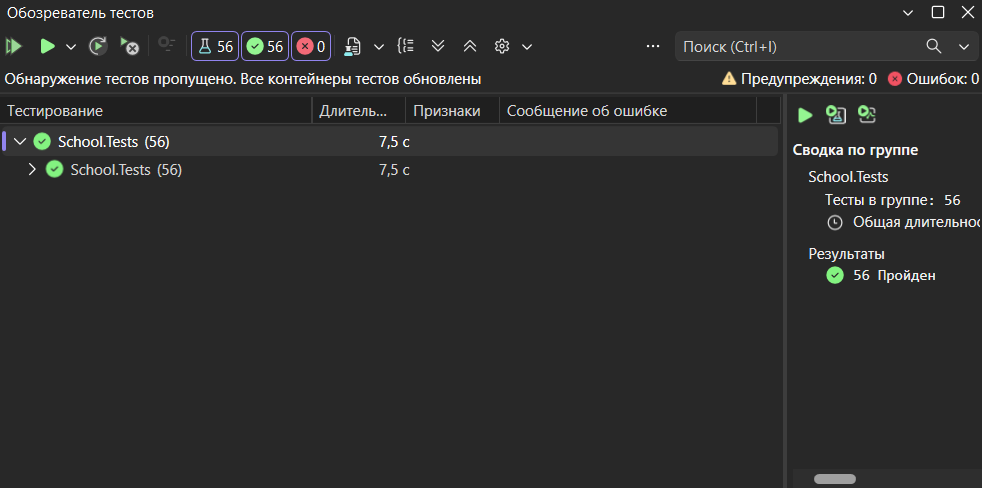
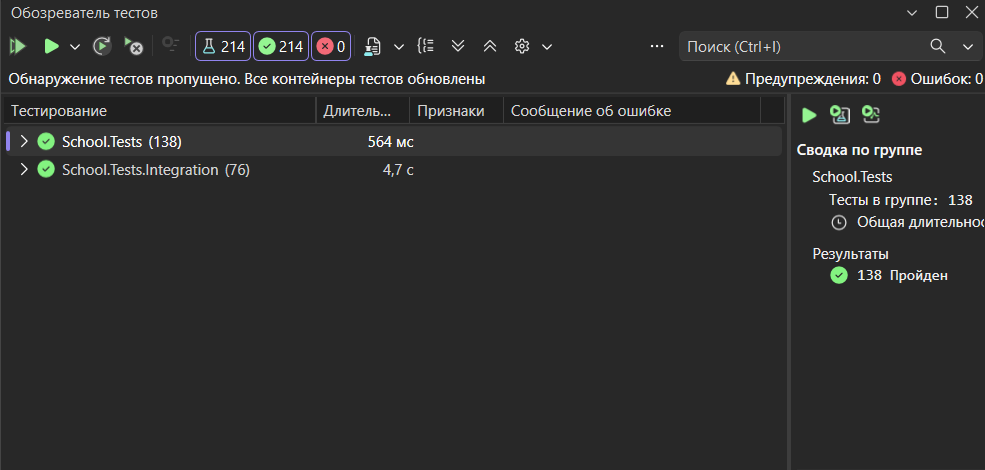
Update README

diff --git a/README.md b/README.md
@@ -1,6 +1,6 @@
 # Школа - учебный проект на C# / .NET 8
 
-Это мой учебный проект - веб-приложение для управления данными школы: ученики, классы, предметы и оценки. Делал на C# и .NET 8, с многослойной (N-tier) архитектурой и MS SQL Server в качестве базы данных.
+Это мой учебный проект - веб-приложение для управления данными школы: ученики, классы, предметы, оценки, учебные периоды и табель успеваемости. Делал на C# и .NET 8, с многослойной (N-tier) архитектурой и MS SQL Server в качестве базы данных.
 
 ## Стек технологий
 
@@ -8,41 +8,100 @@
 - Blazor Web App (Interactive Server) - для UI
 - Microsoft SQL Server (Developer Edition)
 - Entity Framework Core 8 (Code First)
-- xUnit + Moq - для юнит-тестов
+- xUnit + Moq - юнит-тесты
+- SQLite in-memory - интеграционные тесты слоя данных
 - Cookie-based аутентификация, роли Admin / Teacher
 
 ## Архитектура
 
-Проект разбит на 4 слоя (N-tier), каждый в своём проекте:
+Проект разбит на слои, каждый в своём проекте:
 
-- **School.Domain** - модели (Student, SchoolClass, Subject, Grade, User), без зависимостей от остальных слоёв
-- **School.Data** - EF Core: DbContext, миграции, репозитории
-- **School.Services** - бизнес-логика и валидация, расчёт среднего балла
-- **School.Web** - сам Blazor UI (в том числе `AdminGuard` для подтверждения действий администратора)
-- **School.Tests** - юнит-тесты на сервисы
+- **School.Domain** - модели (Student, SchoolClass, Subject, Grade, User, AcademicTerm) и правила валидации через Data Annotations. Ни от чего не зависит
+- **School.Data.Contracts** - интерфейсы репозиториев, свои типы исключений (`DuplicateNameException`, `EntityInUseException`) и модели для чтения (`PagedResult`, `GradeStat` и т.д.)
+- **School.Data** - EF Core: DbContext, миграции и реализации репозиториев
+- **School.Services** - бизнес-логика, валидация, табель и экспорт в CSV
+- **School.Web** - Blazor UI
+- **School.Tests** - юнит-тесты сервисов (Moq)
+- **School.Tests.Integration** - интеграционные тесты репозиториев на SQLite
 
-Зависимости идут строго в одну сторону: Web → Services → Data → Domain.
+Зависимости:
+
+```
+School.Web ──► School.Services ──► School.Data.Contracts ──► School.Domain
+     │                                      ▲
+     └──────► School.Data ──────────────────┘
+```
+
+`School.Services` ссылается **только** на `School.Data.Contracts`, поэтому бизнес-слой физически не может дотянуться до `DbContext` - это проверяет компилятор. Ошибки базы (нарушение уникального индекса, нарушение связи) ловятся в репозиториях и превращаются в свои исключения, так что в сервисах нет ни одного `using Microsoft.EntityFrameworkCore`. `School.Web` ссылается на `School.Data` только чтобы зарегистрировать DbContext и репозитории в DI.
 
 ## Схема базы данных
 
-База нормализована (3НФ), 5 основных таблиц + одна промежуточная для связи многие-ко-многим между классами и предметами:
+База нормализована (3НФ): 6 основных таблиц и одна промежуточная для связи многие-ко-многим между классами и предметами.
 
-- **Students** - ученики (связь с SchoolClasses, многие-к-одному)
+- **Students** - ученики (многие-к-одному с SchoolClasses)
 - **SchoolClasses** - классы
 - **Subjects** - предметы (многие-ко-многим с SchoolClasses через SchoolClassSubject)
 - **Grades** - оценки (связаны со Students и Subjects)
+- **AcademicTerms** - учебные периоды (четверти). С оценками связаны по дате, а не внешним ключом - почему так, написано ниже
 - **Users** - пользователи системы
+
+Удаление везде `Restrict`: класс с учениками, ученика с оценками и предмет с оценками удалить нельзя, приложение покажет понятное сообщение. Названия классов, предметов, периодов и логины уникальны на уровне БД.
 
 ![ER Diagram](docs/er-diagram.png)
 
 ## Что умеет приложение
 
-- Ученики: добавление, редактирование, удаление, фильтр по классу и фамилии
-- Классы: создание, просмотр состава, привязка предметов
-- Предметы: список, привязка к классам
-- Журнал оценок: оценки по 10-балльной шкале, средний балл по каждому предмету и общий средний, фильтр по периоду
-- Вход/регистрация с ролями - удалять данные может только Admin
-- Логирование действий через ILogger
+- **Ученики** - добавление, редактирование, удаление; фильтр по классу и фамилии работает в SQL, список разбит на страницы по 20 человек
+- **Классы** - создание, состав класса, привязка предметов. Название в формате `9-А`: номер от 1 до 12 и заглавная русская буква
+- **Предметы** - список и редактирование
+- **Учебные периоды** - четверти с датами начала и конца; периоды не пересекаются, закрытый период нельзя менять
+- **Журнал оценок** - оценки по 10-балльной шкале, средний по каждому предмету и общий, фильтр по датам. Оценку можно поставить только по предмету класса ученика, только на дату внутри открытого периода и не в будущем
+- **Табель** - таблица «ученики × предметы» за выбранный период и класс со средними и итоговыми оценками, экспорт в CSV
+- **Пользователи** - администратор видит всех пользователей и меняет им роль
+- Вход и регистрация; удалять данные, закрывать периоды и управлять пользователями может только Admin
+- Логирование через ILogger: каждое изменение данных пишется в лог, каждая ошибка на странице - через `LogError` с названием операции и Id
+
+## Учебные периоды и привязка оценок
+
+Каждый период - это название, дата начала, дата окончания (строго позже начала) и признак «закрыт». Периоды не пересекаются, но могут идти стык в стык: следующий начинается на следующий день после конца предыдущего. Даты хранятся без времени, поэтому оценка в первый и последний день периода точно в него попадает.
+
+Правила:
+
+- оценку можно поставить, изменить или удалить, только если её дата попадает в **открытый** период. При изменении проверяется и старая, и новая дата, так что оценку нельзя ни вытащить из закрытой четверти, ни перенести в неё
+- у закрытого периода можно только снять закрытие, остальные поля не редактируются
+- период с оценками и закрытый период удалить нельзя
+
+**Как оценка привязана к периоду.** Я выбрал вариант без внешнего ключа: период определяется по дате оценки каждый раз, когда это нужно. Дата оценки - это факт («оценку поставили 8 ноября»), а принадлежность к четверти из неё следует. Если хранить ещё и `AcademicTermId`, появляются два источника правды, которые могут разойтись: после сдвига границ четверти оценка от 8 ноября может числиться в периоде, который заканчивается 5 ноября. Сдвиг границ при моём подходе работает как в реальной школе: если завуч перенёс конец I четверти с 31.10 на 03.11, оценки за 1-3 ноября автоматически относятся к I четверти. При этом итоги уже закрытых четвертей измениться не могут: у закрытого периода нельзя менять даты, а в закрытом периоде нельзя менять оценки. Ещё один плюс - старые оценки в базе не пришлось переносить миграцией.
+
+Цена этого решения - запрет «нельзя удалить период с оценками» проверяется в сервисе запросом, а не ограничением `Restrict` в базе, потому что внешнего ключа нет. Сдвигать границу между двумя соседними периодами нужно в два шага: сначала сузить один, потом расширить второй (иначе на момент сохранения они пересекутся).
+
+## Табель и итоговая оценка
+
+На экране «Табель» выбираешь период и класс и получаешь таблицу: строки - ученики, столбцы - предметы класса.
+
+- в клетке - средний балл ученика по предмету за период; если оценок нет, клетка пустая
+- «Средний» - средний по **всем** оценкам ученика за период (не среднее от средних по предметам), в скобках итоговая оценка
+- последняя строка - средний по классу по каждому предмету, тоже по всем оценкам
+
+Итоговая оценка округляется через `Math.Round(average, MidpointRounding.AwayFromZero)`. Обычный `Math.Round(8.5)` в .NET даёт **8** (банковское округление к чётному), а для школьной оценки 8.5 должно быть 9. На это есть тест `8.5 → 9`, `7.5 → 8`, `6.5 → 7`.
+
+Табель собирается за 4 запроса к базе на любой размер класса: период, класс с предметами, ученики и один сгруппированный запрос «ученик + предмет → сумма и количество оценок».
+
+## Экспорт табеля в CSV
+
+Кнопка «Скачать CSV» на экране табеля. Файл называется по классу и периоду транслитом, например `tabel-5-A-I-chetvert.csv`.
+
+**Как открыть:** просто двойной щелчок - файл откроется в Excel сразу с колонками и нормальной кириллицей. Для этого:
+
+- файл в UTF-8 с BOM - иначе Excel на Windows читает его в системной кодировке и кириллица превращается в кракозябры
+- разделитель `;` и дробные числа через запятую (`8,50`) - так ждёт Excel с русскими региональными настройками. Если у тебя Excel с английскими настройками, открывай через «Данные → Из текста/CSV» и выбирай разделитель «точка с запятой»
+- если имя начинается с `=`, `+`, `-` или `@`, перед ним ставится апостроф, чтобы Excel не выполнил его как формулу
+
+## Пользователи и роли
+
+Первый зарегистрированный пользователь становится **Admin**, все следующие - **Teacher**. На странице «Пользователи» администратор меняет роли. Свою роль поменять нельзя - так в системе всегда остаётся хотя бы один администратор.
+
+Роль хранится в cookie, но при каждом запросе сверяется с базой: если роль изменили, cookie сразу перевыпускается с новой ролью, а если пользователя больше нет - его разлогинивает. Новая роль начинает действовать после обновления страницы у этого пользователя.
 
 ## Что нужно для запуска
 
@@ -84,24 +143,57 @@ Update-Database -Project School.Data -StartupProject School.Web
 
 Стартовый проект - **School.Web**, дальше **F5** (или **Ctrl+F5** без отладчика). Откроется в браузере, что-то вроде `https://localhost:7266`.
 
-### 5. Первый пользователь
+### 5. Первый пользователь и первые периоды
 
-Пользователей в базе сначала нет. Идём на `/register` и регистрируемся - первый зарегистрированный автоматически становится **Admin**, все следующие - **Teacher**. Если таблицу `Users` очистить, следующий зарегистрированный снова станет **Admin**, поэтому после очистки базы регистрируйтесь первым сами.
+Пользователей в базе сначала нет. Идём на `/register` и регистрируемся - первый зарегистрированный автоматически становится **Admin**. Если таблицу `Users` очистить, следующий зарегистрированный снова станет **Admin**, поэтому после очистки базы регистрируйтесь первым сами.
+
+Дальше нужно создать учебные периоды на странице «Учебные периоды»: без них оценку поставить нельзя. Если в базе уже были оценки до появления периодов, их нельзя изменить, пока не создан период, в который попадает их дата (удалить можно).
 
 ## Тесты
 
-Тест → Обозреватель тестов → Запустить все. Всего 56 тестов на валидацию, логику сервисов и хеширование паролей.
+Всего 214 тестов: 138 юнит-тестов на сервисы и 76 интеграционных на репозитории.
+
+Запуск: Тест → Обозреватель тестов → Запустить все. Или из корня решения:
+
+```
+dotnet test
+```
+
 ![tests](docs/tests.png)
+
+### Интеграционные тесты
+
+Проект `School.Tests.Integration` гоняет настоящие репозитории на **SQLite в памяти**. Провайдер `InMemory` для этого не подходит: он не проверяет ни внешние ключи, ни уникальные индексы, и тест на запрет удаления прошёл бы даже при `Cascade`. SQLite проверяет и то, и другое.
+
+Каждый тест получает свою чистую базу: соединение открывается в конструкторе тестового класса, таблицы создаются через `EnsureCreated`, в `Dispose` соединение закрывается и база исчезает. Ничего настраивать не нужно, SQL Server для этих тестов не нужен.
+
+Граница проверки: SQLite сравнивает строки с учётом регистра, а SQL Server в проде - без. Поэтому «Математика» против «математика» на SQLite не дубликат, хотя в проде дубликат - это зафиксировано отдельным тестом с комментарием.
+
+## Осознанные решения и отступления от задания
+
+- **Привязка оценки к периоду - по дате, без внешнего ключа** (вариант 2 из задания). Почему - в разделе про учебные периоды. Из-за этого запрет на удаление периода с оценками сделан в сервисе, а не через `Restrict`.
+- **Период из одного дня создать нельзя.** В задании сказано, что дата окончания строго позже даты начала, - этому правилу и следую.
+- **Закрывать и открывать периоды может только Admin**, хотя задание явно ограничивает только удаление. Иначе любой учитель мог бы открыть закрытую четверть и поменять итоговые оценки.
+- **Средний по классу в табеле считается по всем оценкам предмета**, а не как среднее от средних учеников - так же, как средний ученика.
+- **Типы исключений лежат в `School.Data.Contracts`**, а не в `School.Domain`: так требует пункт про отдельный проект с контрактами, а исключения описывают ошибки хранилища, не предметной области.
+- **Проект `School.Data.Contracts` сделан сразу после переноса исключений**, а не в конце, чтобы новый код периодов и табеля сразу ложился в правильные проекты.
+- **Логирование ошибок на страницах сделано до новых экранов** и живёт в общем базовом классе `PageBase`. Логгер создаётся там с категорией конкретной страницы - в логе это то же самое, что `@inject ILogger<Students>`, но без одинаковой строки в каждой странице. Отмена операции (`OperationCanceledException`) ошибкой не считается.
+- **Из подсчёта покрытия исключены миграции** (`coverage.runsettings`): это код, который сгенерировал EF, тесты его не исполняют, потому что база в тестах создаётся через `EnsureCreated`.
+- **Название класса - только кириллица**: иначе «5-А» и «5-A» были бы двумя разными классами, которые выглядят одинаково.
 
 ## Структура
 
 ```
 School/
-├── School.Domain/          # модели
-├── School.Data/             # EF Core, репозитории, миграции
-├── School.Services/         # бизнес-логика
-├── School.Web/               # Blazor UI
-├── School.Tests/             # тесты
+├── School.Domain/              # модели и правила валидации
+├── School.Data.Contracts/      # интерфейсы репозиториев, исключения, модели чтения
+├── School.Data/                # EF Core, репозитории, миграции
+├── School.Services/            # бизнес-логика, табель, CSV
+├── School.Web/                 # Blazor UI
+├── School.Tests/               # юнит-тесты
+├── School.Tests.Integration/   # интеграционные тесты на SQLite
+├── coverage.runsettings        # настройки подсчёта покрытия
 └── docs/
-    └── er-diagram.png        # ER-диаграмма
+    ├── er-diagram.png          # ER-диаграмма
+    └── tests.png               # скриншот прогона тестов
 ```
